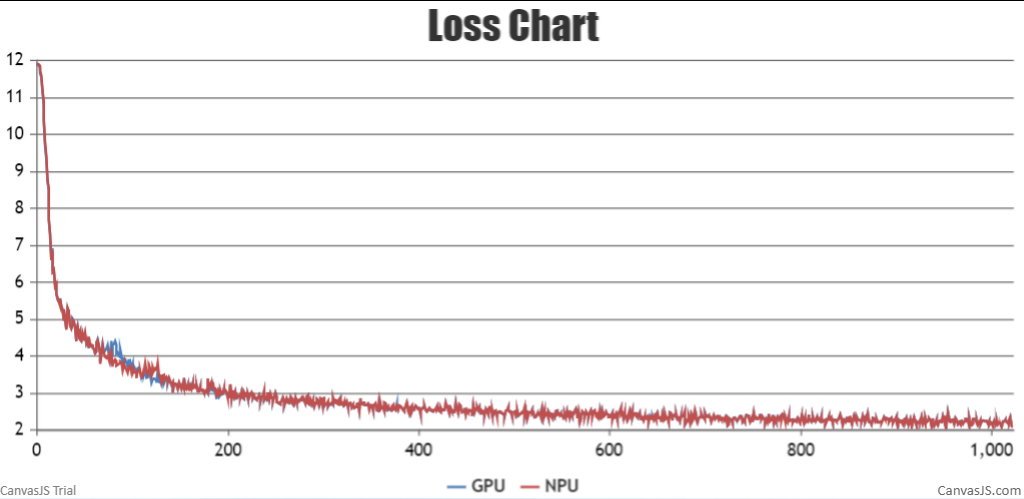
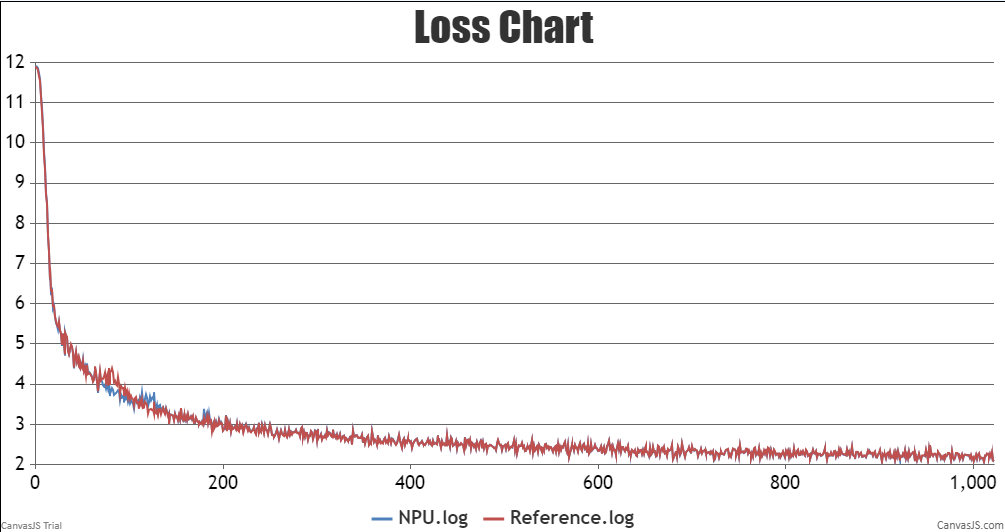
add baichuan readme

diff --git a/tools/ckpt_convert/llama/convert_weights_from_huggingface.py b/tools/ckpt_convert/llama/convert_weights_from_huggingface.py
@@ -11,7 +11,7 @@
 # distributed under the License is distributed on an "AS IS" BASIS,
 # WITHOUT WARRANTIES OR CONDITIONS OF ANY KIND, either express or implied.
 # See the License for the specific language governing permissions and
-# limitations under the License.
+# limitations under the License. 
 
 """Convert weight from huggingface to ascendspeed"""
 

diff --git a/examples/baichuan/README.md b/examples/baichuan/README.md
@@ -20,13 +20,24 @@
 
 ## Training
 
-Here's a quick summary of training Baichuan-7B: 
+Here's a hardware summary of pre-training Baichuan-7B:
 
-|          |                                               |
-| -------- | --------------------------------------------- |
-| Hardware | 1x8 Ascend NPUs                          |
-| Software | AscendSpeed                                   |
-| Dataset  | train-00000-of-00001-a09b74b3ef9c3b56.parquet |
+| Hardware |                      Value                      |
+| :------: | :---------------------------------------------: |
+|   NPU    |               8 x Ascend NPUs                   |
+
+Here's a software summary of pre-training Baichuan-7B: 
+
+
+|         Software          |                 Version                 |link  |
+| :-----------------------: | :-------------------------------------: | :---:|
+|          Python           |                  3.7.16                 |-|
+|          driver           |               23.0.RC3.B050             |[link](https://support.huawei.com/enterprise/zh/ascend-computing/ascend-hdk-pid-252764743/software/261159045?idAbsPath=fixnode01%7C23710424%7C251366513%7C22892968%7C252764743)|
+|         firmware          |              7.0.t8.0.b214              |[link](https://support.huawei.com/enterprise/zh/ascend-computing/ascend-hdk-pid-252764743/software/261159045?idAbsPath=fixnode01%7C23710424%7C251366513%7C22892968%7C252764743)|
+|           CANN            |Ascend-cann-toolkit-7.0.T8-linux    |[link](https://support.huawei.com/enterprise/zh/ascend-computing/cann-pid-251168373/software/261204647?idAbsPath=fixnode01%7C23710424%7C251366513%7C22892968%7C251168373)|
+| binary arithmetic package |   Ascend-cann-kernels-XXX_7.0.T8_linux |[link](https://support.huawei.com/enterprise/zh/ascend-computing/cann-pid-251168373/software/261204647?idAbsPath=fixnode01%7C23710424%7C251366513%7C22892968%7C251168373)|
+|           torch           |                 1.11.0                  |-|
+|         torch_npu         |           1.11.0.post4-20230915         |[link](https://pytorch-package.obs.cn-north-4.myhuaweicloud.com/pta/Daily/v1.11.0/20230915.2/pytorch_v1.11.0_py37.tar.gz)|
 
 
 ### Script
@@ -47,7 +58,7 @@ conda create -n test python=3.7
 conda activate test
 
 # install torch and torch_npu
-pip install torch-1.11.0-cp37-cp37m-linux_aarch64.whl
+pip install torch==1.11.0
 pip install torch_npu-1.11.0.post4_XXXXXX-cp37-cp37m-linux_aarch64.whl
 pip install apex-0.1_ascend_XXXXXX-cp37-cp37m-linux_aarch64.whl
 
@@ -134,13 +145,13 @@ The performance of Baichuan-7B in **Ascend NPU** and **Reference**:
 
 #### Accuracy of the loss
 
-NPU vs GPU loss.
+NPU vs Reference loss.
 
 The NPU runs smoothly, the resource usage is stable, no errors are reported in the middle of the process, the Loss is on a decreasing trend, and the convergence speed is as expected. The relative error of the average loss is 0.01093, less than 2%, the maximum relative error is 0.1243, and the maximum absolute error is 0.4859. The precision meets the requirements.
 
 ![NPU-LOSS](./images/7B_loss_compare.png)
 
-NPU vs GPU loss relative error.
+NPU vs Reference loss relative error.
 
 ![NPU-Relative-Error](./images/7B_relative_error.png)
 
@@ -149,16 +160,25 @@ NPU vs GPU loss relative error.
 # Baichuan-13B
 
 ## Training
-Here's a quick summary of training baichuan-13B:
 
-|          |                          |
-| :------: | :----------------------: |
-| Hardware |   1x8 Ascend NPUs   |
-| Software |       AscendSpeed        |
-| Dataset  | alpaca-data-conversation |
+Here's a hardware summary of pre-training Baichuan-13B:
+
+| Hardware |                      Value                      |
+| :------: | :---------------------------------------------: |
+|   NPU    |               8 x Ascend NPUs               |
+
+Here's a software summary of pre-training Baichuan-13B:
 
 
-
+|         Software          |                 Version                 |link  |
+| :-----------------------: | :-------------------------------------: | :---:|
+|          Python           |                  3.7.16                 |-|
+|          driver           |               23.0.RC3.B050             |[link](https://support.huawei.com/enterprise/zh/ascend-computing/ascend-hdk-pid-252764743/software/261159045?idAbsPath=fixnode01%7C23710424%7C251366513%7C22892968%7C252764743)|
+|         firmware          |              7.0.t8.0.b214              |[link](https://support.huawei.com/enterprise/zh/ascend-computing/ascend-hdk-pid-252764743/software/261159045?idAbsPath=fixnode01%7C23710424%7C251366513%7C22892968%7C252764743)|
+|           CANN            |Ascend-cann-toolkit-7.0.T8-linux    |[link](https://support.huawei.com/enterprise/zh/ascend-computing/cann-pid-251168373/software/261204647?idAbsPath=fixnode01%7C23710424%7C251366513%7C22892968%7C251168373)|
+| binary arithmetic package |   Ascend-cann-kernels-XXX_7.0.T8_linux |[link](https://support.huawei.com/enterprise/zh/ascend-computing/cann-pid-251168373/software/261204647?idAbsPath=fixnode01%7C23710424%7C251366513%7C22892968%7C251168373)|
+|           torch           |                 1.11.0                  |-|
+|         torch_npu         |           1.11.0.post4-20230915         |[link](https://pytorch-package.obs.cn-north-4.myhuaweicloud.com/pta/Daily/v1.11.0/20230915.2/pytorch_v1.11.0_py37.tar.gz)|
 
 
 
@@ -179,7 +199,7 @@ conda create -n test python=3.7
 conda activate test
 
 # install torch and torch_npu
-pip install torch-1.11.0-cp37-cp37m-linux_aarch64.whl
+pip install torch==1.11.0
 pip install torch_npu-1.11.0.post4_XXXXXX-cp37-cp37m-linux_aarch64.whl
 pip install apex-0.1_ascend_XXXXXX-cp37-cp37m-linux_aarch64.whl
 
@@ -227,17 +247,19 @@ python $SCRIPT_PATH \
     --output-model-dir ./model_weights \
     --tensor-model-parallel-size 8 \
     --pipeline-model-parallel-size 1 \
-    --type 13B 
+    --make-vocab-size-divisible-by 1 \
+    --type 13B \
+    --pse True     
 ```
 
 4. Prepare dataset
-Download the Baichuan-13B datasets from [here](https://github.com/lm-sys/FastChat/blob/v0.1.10/playground/data/alpaca-data-conversation.json) 
+Download the Baichuan-13B datasets from [here](https://huggingface.co/datasets/tatsu-lab/alpaca/resolve/main/data/train-00000-of-00001-a09b74b3ef9c3b56.parquet) 
 
 ```shell
   mkdir dataset_baichuan
   mkdir model_save
   cd ./dataset_baichuan
-  wget https://github.com/lm-sys/FastChat/blob/v0.1.10/playground/data/alpaca-data-conversation.json
+  wget https://huggingface.co/datasets/tatsu-lab/alpaca/resolve/main/data/train-00000-of-00001-a09b74b3ef9c3b56.parquet
   cd ..
 
 ```
@@ -245,13 +267,13 @@ Download the Baichuan-13B datasets from [here](https://github.com/lm-sys/FastCha
 ```shell
 #!/bin/bash
 
-SCRIPT_PATH=./tools/preprocess_data.py
-python $SCRIPT_PATH \
-    --llama-json-data-path ./dataset_baichuan/alpaca-data-conversation.json \
-    --tokenizer-model-path ./tokenizer \
-    --output-prefix internlm_eos_text \
+python ./tools/preprocess_data.py \
+    --input ./dataset_baichuan/train-00000-of-00001-a09b74b3ef9c3b56.parquet \
+    --tokenizer-name-or-path ./tokenizer \
+    --output-prefix ./dataset_baichuan/alpaca \
     --workers 4 \
-    --log-interval 1000 
+    --log-interval 1000 \
+    --tokenizer-type PretrainedFromHF 
 ```
 
 
@@ -264,9 +286,9 @@ source /usr/local/Ascend/ascend-toolkit/set_env.sh
 
 # modify script orign dataset path according to your own dataset path
 TOKENIZER_PATH=./tokenizer/  
-DATA_PATH=./dataset_baichuan/internlm_eos_text  
+DATA_PATH=./dataset_baichuan/aplaca_text_document  
 LOAD_PATH=./model_weights
-CHECKPOINT_PATH=./model_save
+CHECKPOINT_PATH=./ckpt
 ```
 
 6. Launch Baichuan-13B pre-training script: /examples/baichuan/pretrain_baichuan_ptd_13B.sh
@@ -288,23 +310,23 @@ The performance of the Baichuan-13B in **Ascend NPU** and **Reference**:
 | Device |    Model     | total Iterations | throughput rate (samples/s/p) | throughput rate (tokens/s/p) | single-step time (s/step) | floating point operation (TFLOPs/s) |
 | :----: | :----------: | :--------------: | :---------------------------: | :--------------------------: | :-----------------------: | :---------------------------------: |
 |  NPUs  | Baichuan-13B |       1000       |             1.928             |             1024             |          16.067           |                89.37                |
-|  Reference  | Baichuan-13B |       1000       |             1.535             |             785              |          20.852           |                68.39                |
+|  Reference  | Baichuan-13B |       1000       |             1.535             |             862              |          19.852           |                72.39                |
 
 
 
 #### Accuracy of the loss
 
-NPU vs GPU loss.
+NPU vs Reference loss.
 
-The NPU runs smoothly, the resource usage is stable, no errors are reported in the middle of the process, the Loss is on a decreasing trend, and the convergence speed is as expected.
+The NPU runs smoothly, the resource usage is stable, no errors are reported in the middle of the process, the Loss is on a decreasing trend, and the convergence speed is as expected. The relative error of the average loss is 0.00725, less than 2%, the maximum relative error is 0.01978, and the maximum absolute error is 0.10811. The precision meets the requirements.
 
-![NPU-LOSS](./images/13B_loss_compare.png)
+![NPU-LOSS](./images/13B-loss-compare.png)
 
-NPU vs GPU loss relative error.
+NPU vs Reference loss relative error.
 
-The relative error between NPU and GPU Loss is less than 0.02 throughout, as expected.
+The relative error between NPU and Reference Loss is less than 0.02 throughout, as expected.
 
-![NPU-Relative-Error](./images/13B_relative_error.png)
+![NPU-Relative-Error](./images/baichuan13B-loss-relative-error.png)
 
 
 
